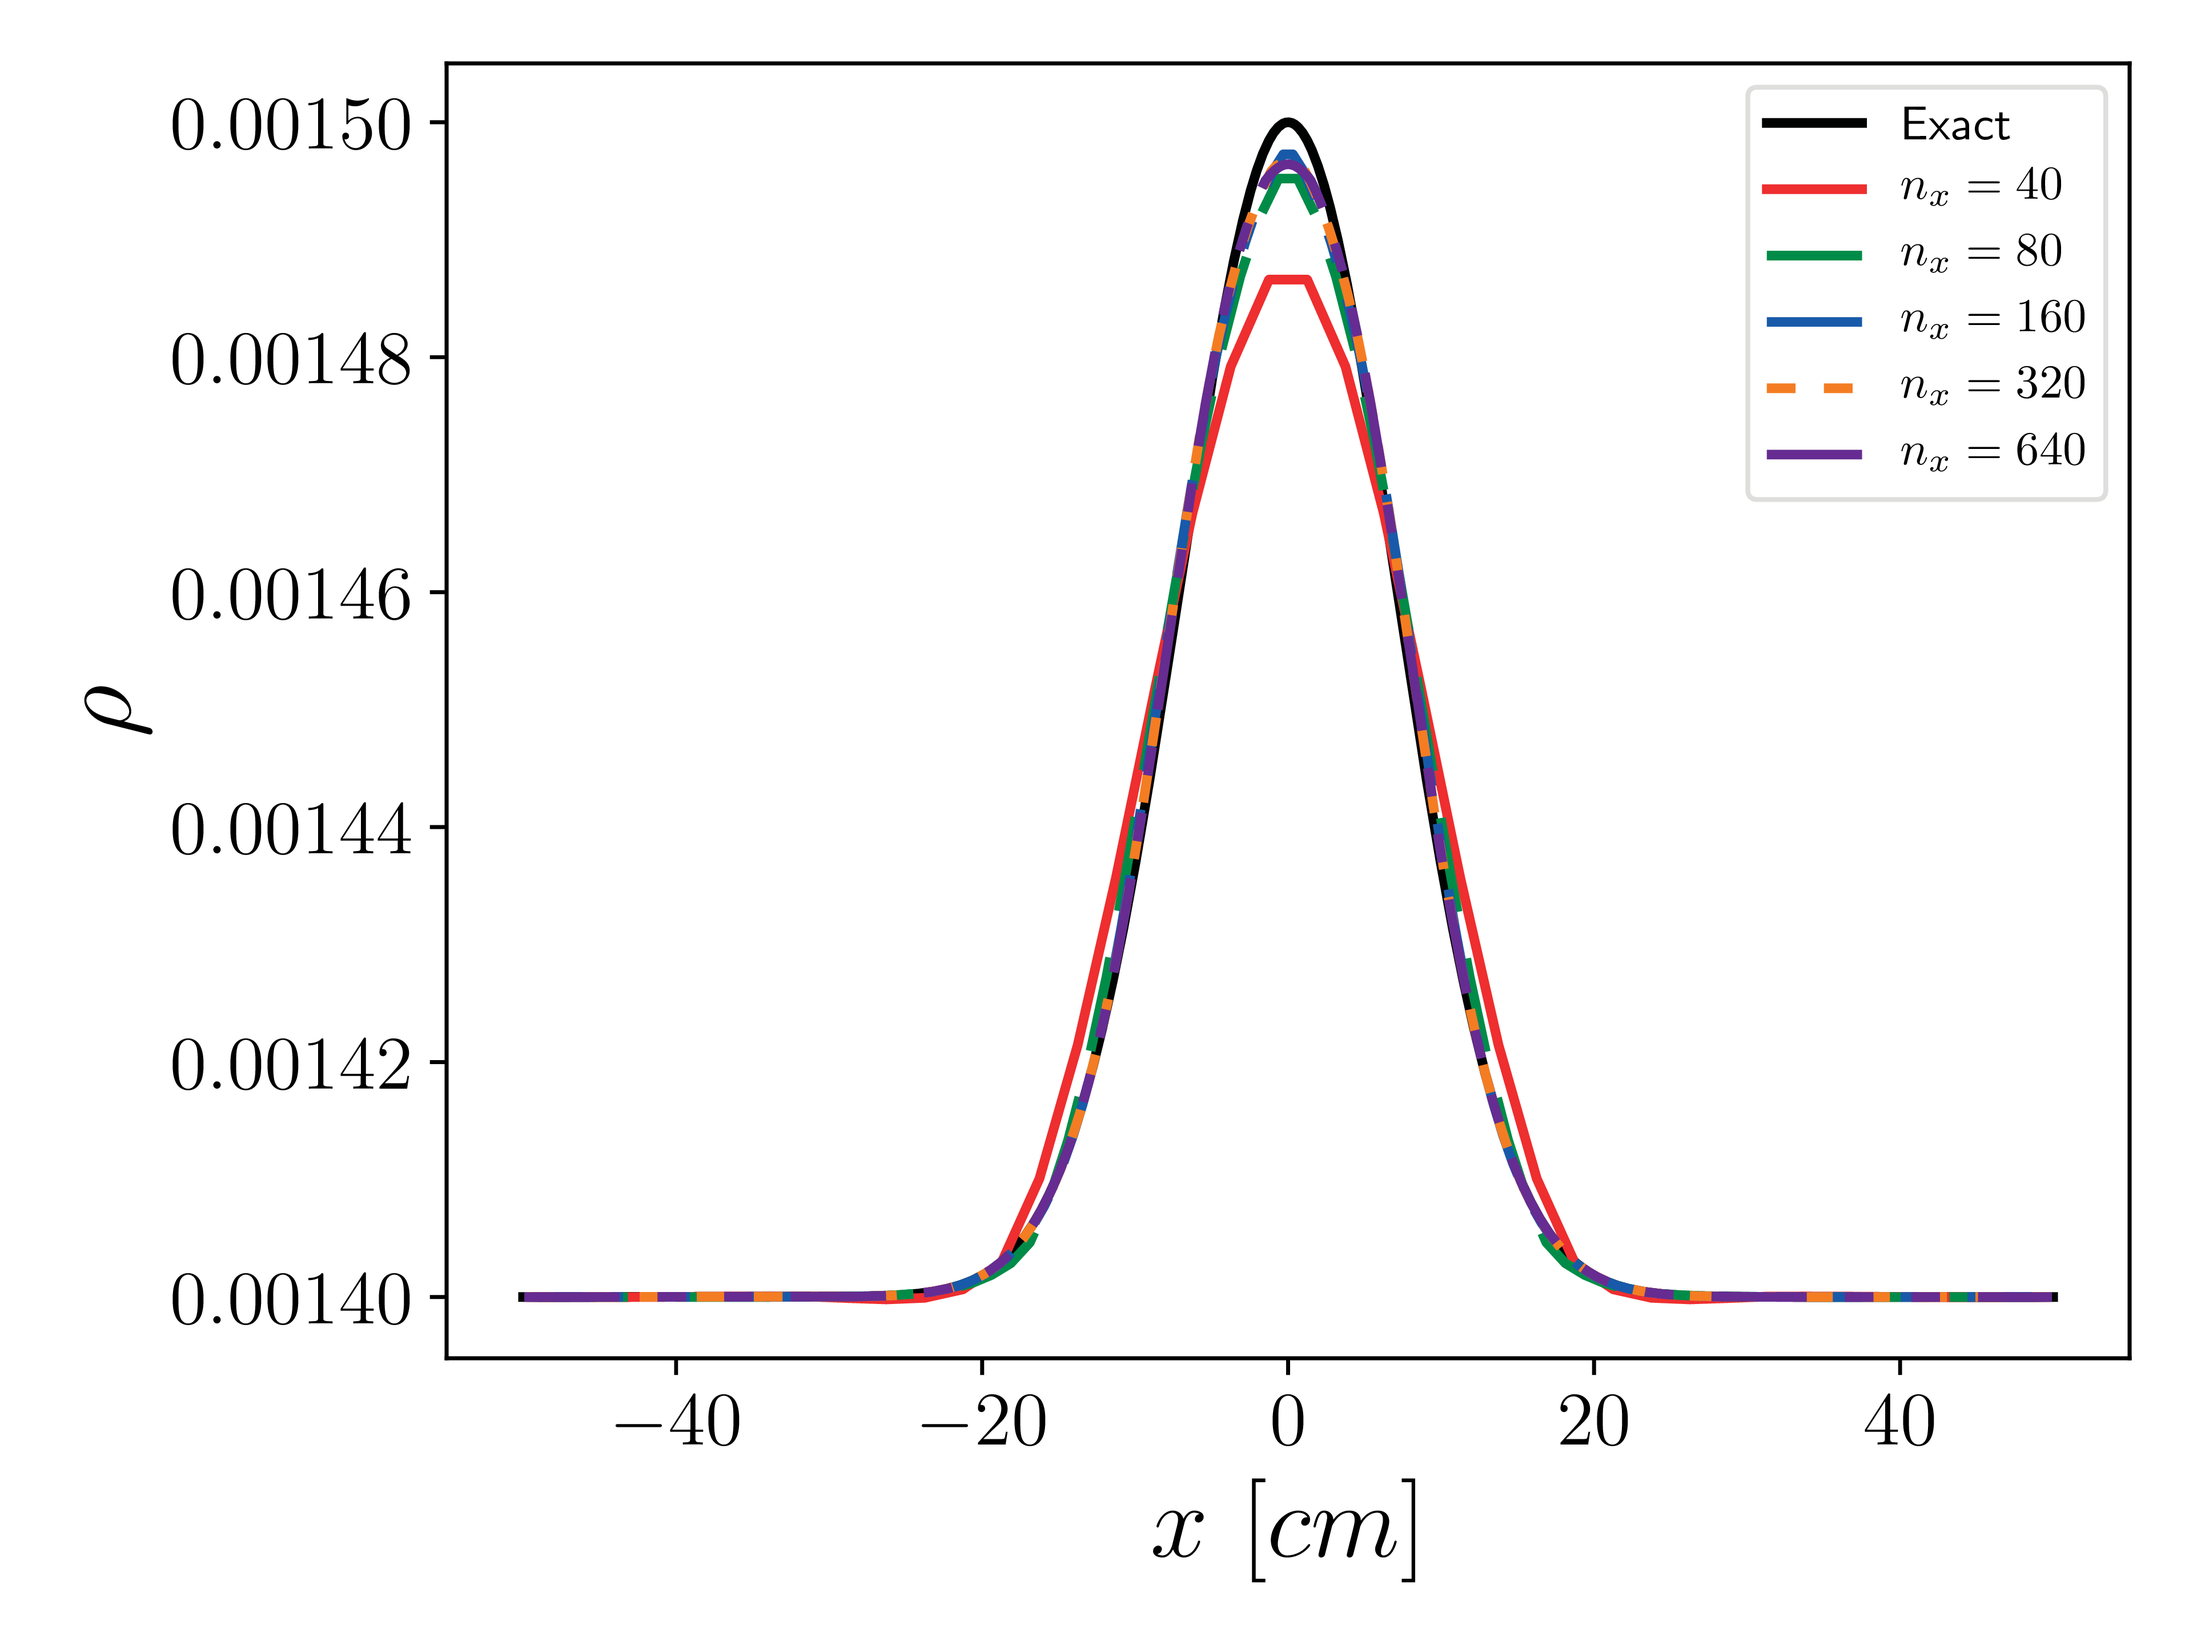
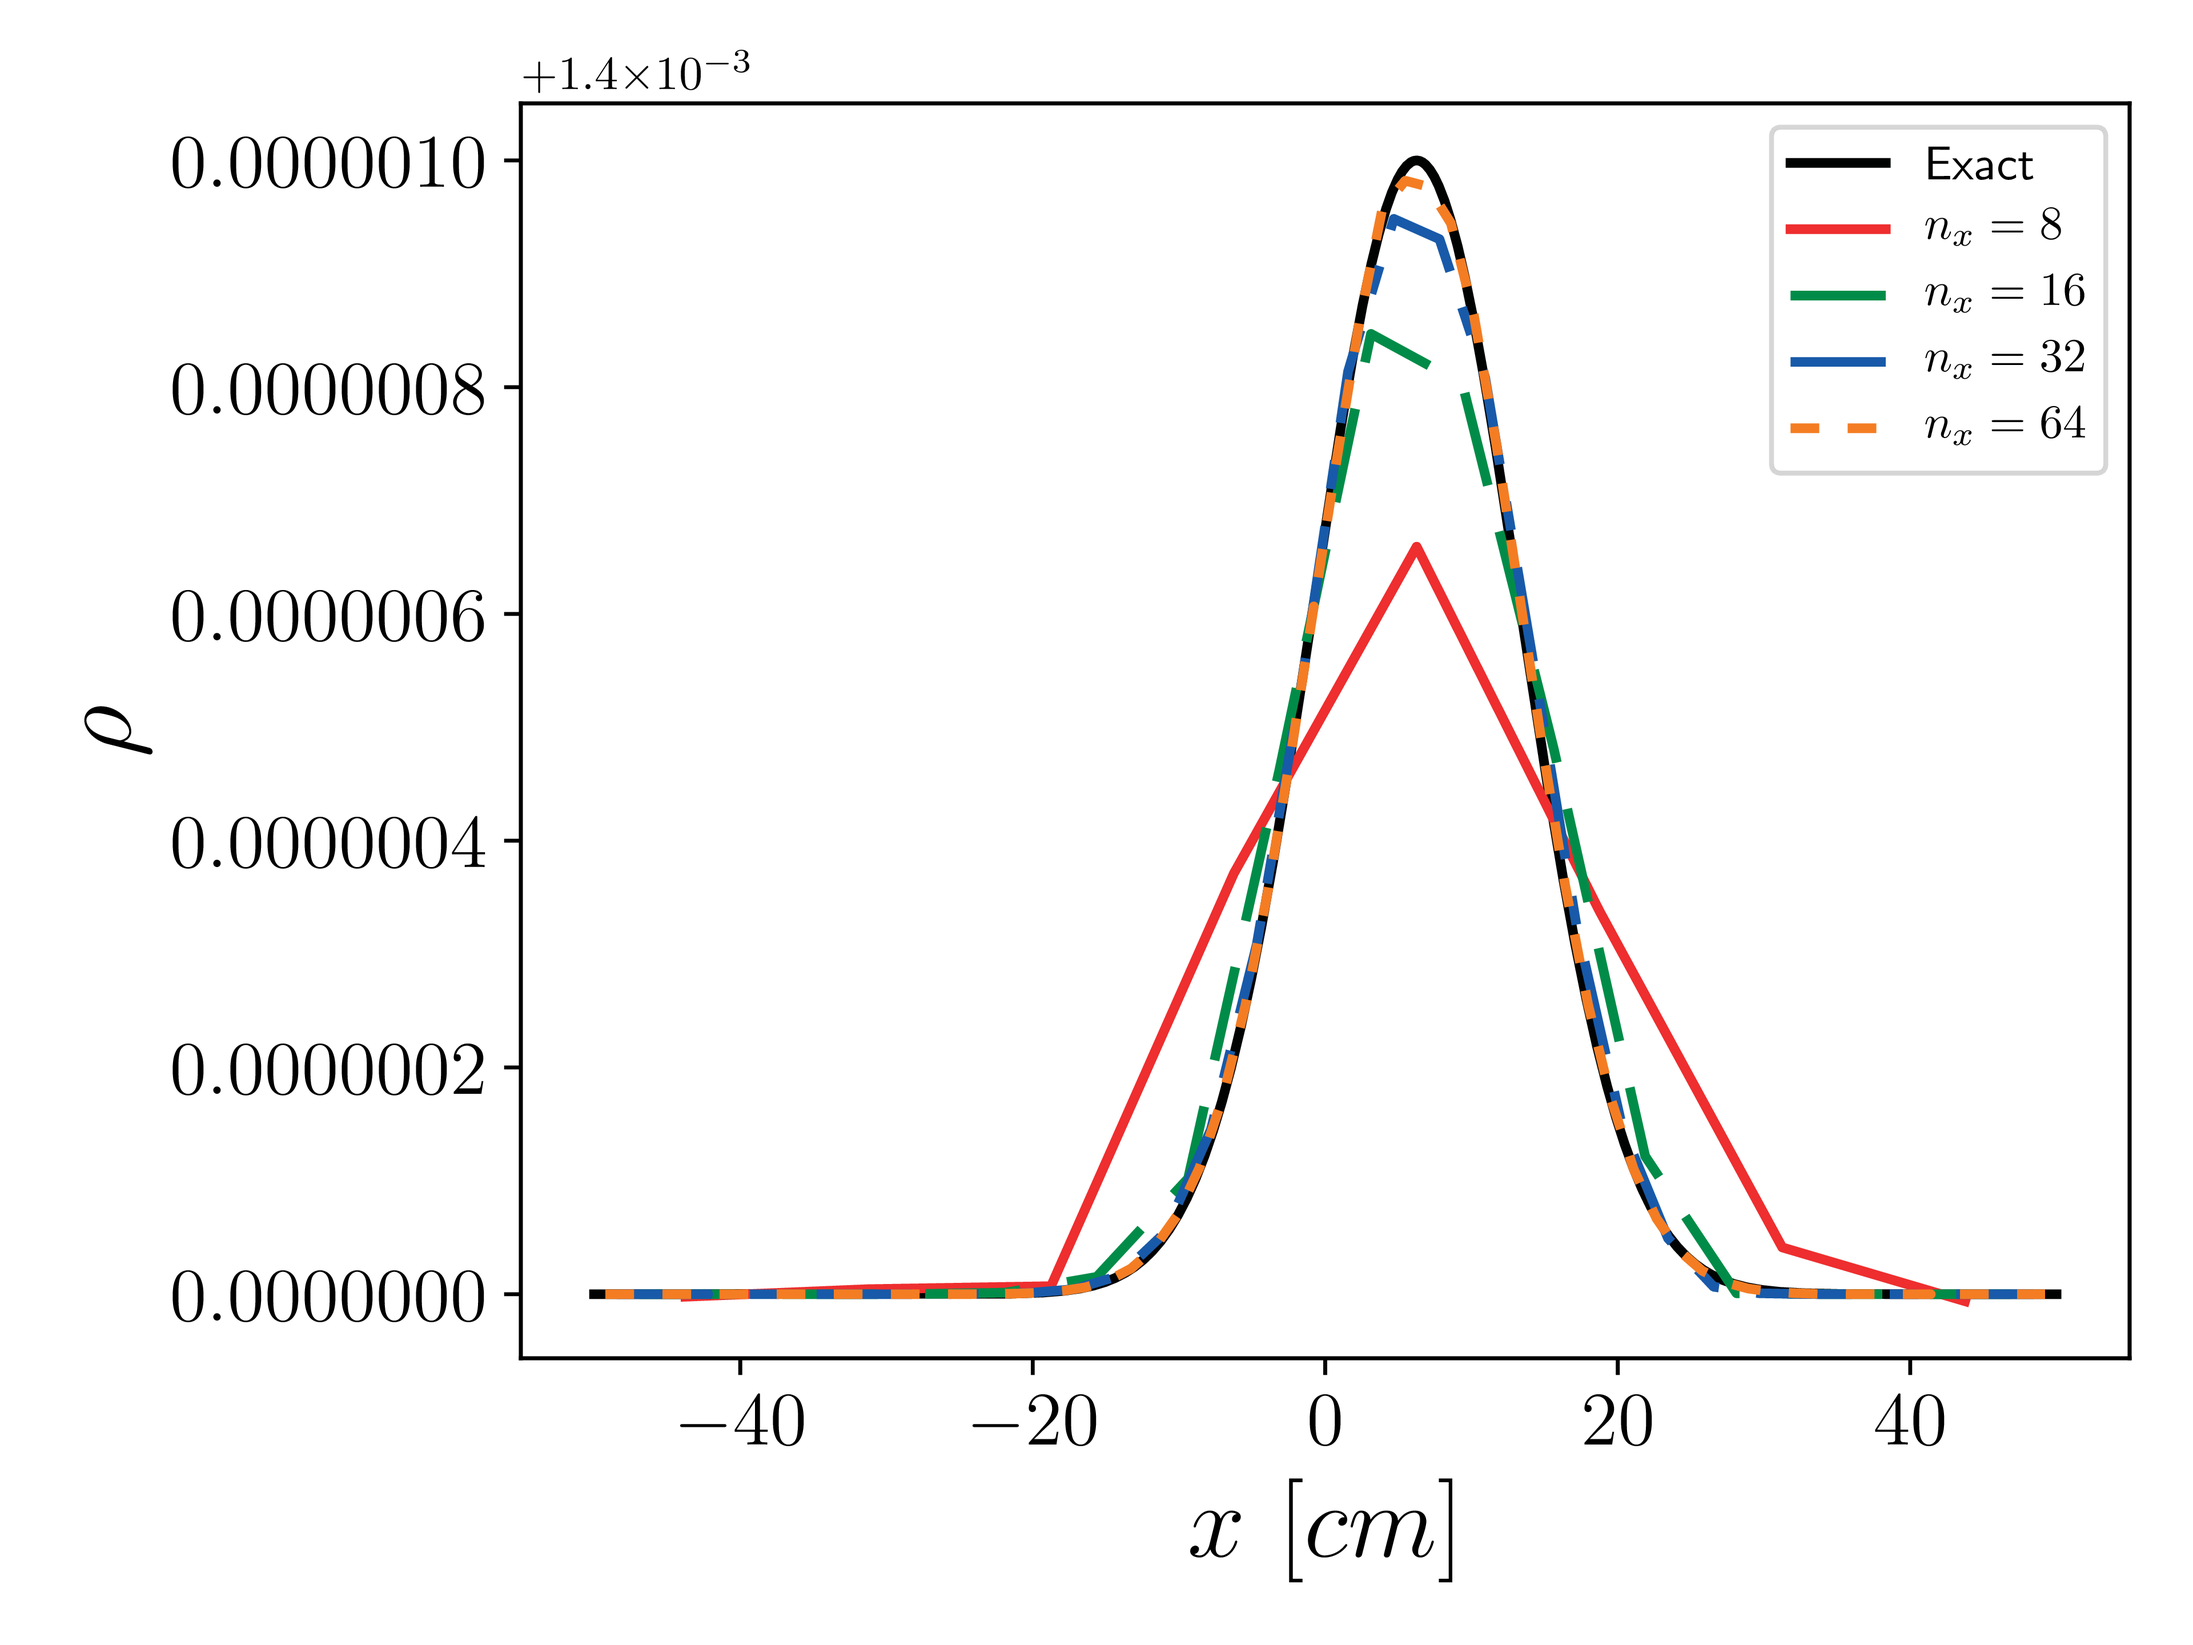
Update C9 docs

diff --git a/Docs/sphinx_doc/ebverification/C9/README.rst b/Docs/sphinx_doc/ebverification/C9/README.rst
@@ -18,22 +18,24 @@ The density pulse at the center of the channel is defined as:
 
    p(x) = p_0 + \rho'(x) c_s c_s
 
+   u(x) = c_s \rho'(x) / \rho_0
+
 The background pressure is set to :math:`p_0 = 100000 erg/cm^3`, the
 background density is set to :math:`\rho_0 = 0.0014 g/cm^3`,
-:math:`\alpha=10^{-4} g/cm^3`, :math:`\sigma=10cm`, and the background
-velocity is set to 0. The length of the channel is 100cm and the
-radius is 5cm. The simulations are performed until the acoustic pulse
-comes back to the center of the channel, :math:`t=0.01s`.
+:math:`\alpha=10^{-6} g/cm^3`, and :math:`\sigma=10cm`. The length of
+the channel is 100cm and the radius is 25cm. The simulations are
+performed for :math:`t=0.000625s`. The CFL is set to 0.001 to minimize
+time discretization errors.
 
-Acoustic pulse at t=0.01s
-#########################
+Acoustic pulse at :math:`t=0.000625s`
+#####################################
 
 .. image:: ./ebverification/C9/pulse.png
    :height: 200pt
 
 
-Density profiles in the centerline at t=0.01s
-#############################################
+Density profiles in the centerline at :math:`t=0.000625s`
+#########################################################
 
 .. image:: ./ebverification/C9/rho.png
    :height: 300pt
@@ -52,3 +54,8 @@ solution, and :math:`n_x` is the number of cells in the
 
 .. image:: ./ebverification/C9/error.png
    :height: 300pt
+
+.. note::
+   The second order convergence observed here is expected for this
+   test case as all relevant physics happen in the direction
+   perpendicular to the EB surface.
